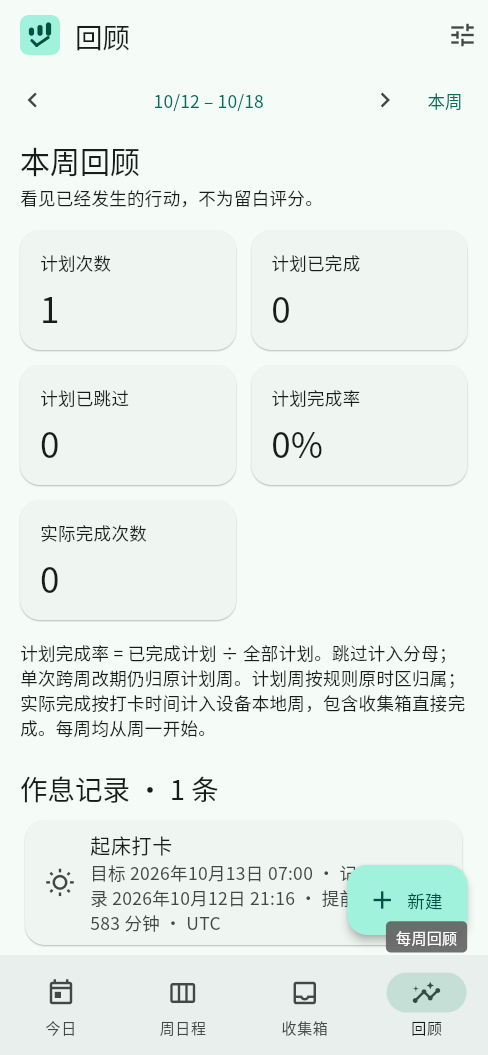
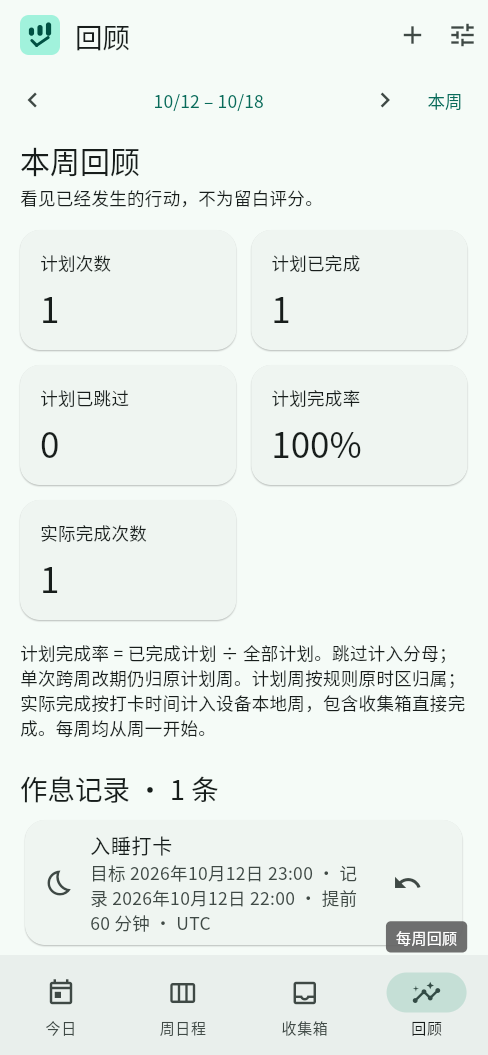
fix: keep review action clear of routine records

diff --git a/app/test/global_interactions_test.dart b/app/test/global_interactions_test.dart
@@ -37,6 +37,50 @@ void main() {
     expect(find.text('保留这条输入'), findsOneWidget);
   });
 
+  testWidgets('review keeps task creation clear of routine records', (
+    tester,
+  ) async {
+    tester.view.physicalSize = const Size(390, 844);
+    tester.view.devicePixelRatio = 1;
+    addTearDown(tester.view.resetPhysicalSize);
+    addTearDown(tester.view.resetDevicePixelRatio);
+
+    final planner = Planner.memory(timezone: 'UTC');
+    final reminders = ReminderService(planner);
+    addTearDown(() {
+      reminders.dispose();
+      planner.dispose();
+    });
+    final now = DateTime.now();
+    await planner.saveRoutinePreferences(
+      RoutinePreferences(bedtimeMinutes: 22 * 60),
+    );
+    await planner.recordRoutine(
+      type: RoutineType.bedtime,
+      targetDate: DateTime.utc(now.year, now.month, now.day),
+      recordedAt: now.toUtc(),
+      timezone: 'UTC',
+    );
+
+    await tester.pumpWidget(
+      MaterialApp(
+        home: RhythmShell(planner: planner, reminders: reminders),
+      ),
+    );
+    await tester.tap(find.text('回顾').last);
+    await tester.pumpAndSettle();
+
+    expect(find.byType(FloatingActionButton), findsNothing);
+    final createButton = find.byTooltip('新建任务');
+    expect(createButton, findsOneWidget);
+    await tester.scrollUntilVisible(find.text('入睡打卡'), 300);
+    expect(find.text('入睡打卡'), findsOneWidget);
+
+    await tester.tap(createButton);
+    await tester.pumpAndSettle();
+    expect(find.byType(TaskEditor), findsOneWidget);
+  });
+
   testWidgets('inbox create failure retains input and retry creates once', (
     tester,
   ) async {

diff --git a/app/lib/features/shell.dart b/app/lib/features/shell.dart
@@ -45,6 +45,11 @@ class _RhythmShellState extends State<RhythmShell> {
     super.dispose();
   }
 
+  void _createTask(BuildContext context) {
+    HapticFeedback.selectionClick();
+    showTaskEditor(context, widget.planner);
+  }
+
   @override
   Widget build(BuildContext context) => AnimatedBuilder(
     animation: widget.planner,
@@ -64,6 +69,12 @@ class _RhythmShellState extends State<RhythmShell> {
           ],
         ),
         actions: [
+          if (_page == 3)
+            IconButton(
+              tooltip: '新建任务',
+              icon: const Icon(Icons.add),
+              onPressed: () => _createTask(context),
+            ),
           IconButton(
             tooltip: '设置',
             icon: const Icon(Icons.tune),
@@ -108,14 +119,12 @@ class _RhythmShellState extends State<RhythmShell> {
           ],
         ),
       ),
-      floatingActionButton: MediaQuery.viewInsetsOf(context).bottom > 0
+      floatingActionButton:
+          MediaQuery.viewInsetsOf(context).bottom > 0 || _page == 3
           ? null
           : FloatingActionButton.extended(
               tooltip: '新建任务',
-              onPressed: () {
-                HapticFeedback.selectionClick();
-                showTaskEditor(context, widget.planner);
-              },
+              onPressed: () => _createTask(context),
               icon: const Icon(Icons.add),
               label: const Text('新建'),
             ),

diff --git a/app/docs/phase-two-verification.md b/app/docs/phase-two-verification.md
@@ -6,7 +6,7 @@
 ## 构建与自动化
 
 - `flutter analyze`：无问题。
-- `flutter test`：59 项全部通过，含品牌主题、七列日程交互、全局 UI、作息记录、旧版快照迁移及 SQLite 持久化回归。
+- `flutter test`：60 项全部通过，含品牌主题、七列日程交互、全局 UI、作息记录、旧版快照迁移及 SQLite 持久化回归。
 - `dart tool/export_icons.dart`：生成 Android 五种密度图、Web favicon、普通及 maskable 图标；重复导出后十个 PNG 的 SHA-256 均与首次一致。Web maskable 安全区及多种自适应遮罩预览另有静态检查。通知专用 `ic_notification` 与 `raw/keep.xml` 保留。
 - `flutter build apk --release --split-per-abi`：armeabi-v7a、arm64-v8a、x86_64 均成功。
 - `flutter build web --target lib/main.dart --no-web-resources-cdn --no-wasm-dry-run`：成功，使用本地 Flutter Web 资源。
@@ -14,7 +14,7 @@
 
 ## Web 实际操作
 
-使用独立 Chromium 页面 `http://127.0.0.1:18180/`，Flutter 页面视口先为 390×844 CSS px（设备像素比 1.25），后为 360×640 CSS px；结束时仅清除该隔离 origin 的合成测试数据，未访问或清理其他 origin。Web 插件能力不代表 Android 插件能力。
+主要流程使用独立 Chromium 页面 `http://127.0.0.1:18180/`，视口为 390×844 CSS px（设备像素比 1.25）及 360×640 CSS px；本轮最终修复复核使用独立页面 `http://127.0.0.1:18181/`。结束时仅清除这些隔离 origin 的合成 `localStorage` / `sessionStorage` 数据，未访问或清理其他 origin。Web 插件能力不代表 Android 插件能力。
 
 - 在收集箱仅输入名称创建一项临时验证任务；安排到 2026-10-12 21:11–22:11 后，收集箱不再重复显示；今日及周日程各显示同一项。直接完成没有打开详情，卡片留在原时段并显示已完成；轻量反馈可撤销。回顾显示计划 1、完成 1、完成率 100%、实际完成 1；撤销后回到计划 1、完成 0、实际完成 0。周日程“本周全部日程”可打开该项并进入完整详情；在详情中主动跳过后，同一原时段显示已跳过，回顾显示计划 1、跳过 1、完成率 0%、实际完成 0。
 - 实际创建每周一 / 周三重复任务，将周一实例单次推迟至周二 21:38；周三实例仍留在原时段。对周三实例执行「仅本次」改名后，周二改期实例未变；执行「本次及以后」改名后，周三与下一周实例均更新。依次验证三种删除范围：单次删除仅移除所选周一实例；从周三起删除后续范围会清除下周实例；整个系列改名后再删除整个系列，剩余周内实例消失。Planner 行为测试覆盖系列版本与已有执行历史保留契约。
@@ -22,6 +22,7 @@
 - 独立记录入睡 21:15（目标 23:00），再更正为 21:00（提前 120 分钟）并单独撤销；随后记录起床，默认目标日期为 2026-10-13、07:00，实际记录为 2026-10-12 21:16（提前 583 分钟）。回顾显示作息记录 1 条，同时计划仍为 1、完成为 0；撤销作息记录后作息数归零，任务指标不变。重新加载页面后任务及 23:00 / 07:00 / 折叠偏好仍在。
 - Web 设置实际导出 schema v2 JSON（1 项日程、作息偏好），先取消恢复，再增加一项收集箱任务并确认完整替换；导入后新增任务消失，原日程与作息偏好恢复。此为 Web 文件选择 / 下载流程，不代替 Android 原生 SQLite 与文件选择器验收。
 - 浅色今日、周日程、收集箱、回顾、设置及编辑面板；运行中切换浏览器 `prefers-color-scheme` 后检查深色今日、周日程、收集箱、回顾、设置及编辑面板。使用 Flutter Web 语义树检查并操作中文名称、选中态、空白日程、任务、作息、撤销和导航控件；这是 Web 语义验证，不等同于 Android TalkBack。
+- 回顾页新建任务入口仅显示在标题栏，悬浮新建按钮隐藏；390×844 实际作息记录卡片不再被操作按钮遮挡，点击标题栏入口可打开任务编辑器。已更新作息记录与完成回顾截图。
 - `BrandMark` 在两种种子色及浅 / 深色的像素级 widget 回归通过；Web 明暗主题变化无需重启，应用内品牌标识与功能图标随主题更新。
 - 浏览器中的任务与作息数据均为隔离 origin 的临时验证数据，不是用户数据，也未写入 Android 设备。
 
@@ -29,8 +30,8 @@
 
 ## Android 17 设备边界
 
-已连接设备为 Redmi Note 5 Pro、Android 17 / API 37。将当前 arm64 release APK 通过 `adb install -r` 原位更新安装；没有卸载应用、清除数据、重启设备或改动网络。`pm path org.rhythm.rhythm` 指向已安装 APK，包管理器报告 `versionCode 2002`。
-启动尝试及 `adb shell wm dismiss-keyguard` 尝试后，屏幕仍停留在设备锁屏。没有尝试 PIN、凭据绕过或其他安全锁屏操作。因此本阶段**没有**声称实际观察了 Android 启动器彩色 / 单色图标、壁纸主题着色、Android 真通知小图标、通知送达或设备内应用页面；这些需要设备所有者先解锁后再验收。APK 构建和安装证据不替代运行证据。
+此前一次设备检查中，`adb install -r` 成功，`pm path org.rhythm.rhythm` 返回已安装 APK，包管理器报告 `versionCode 2002`。本轮最终 release APK 构建成功后，`adb devices -l` 已无设备；`adb mdns services` 仍发现 `_adb-tls-connect` 服务，但连接当时发现的 `192.168.1.249:42785` 失败，因此最新构建未能原位覆盖安装。
+设备先前可连接时，启动尝试及 `adb shell wm dismiss-keyguard` 后屏幕仍停留在锁屏。没有尝试 PIN、凭据绕过、清除数据、重启或改变设备网络。因此本阶段**没有**声称实际观察了 Android 启动器彩色 / 单色图标、壁纸主题着色、Android 真通知小图标、通知送达或设备内应用页面；这些需要设备所有者解锁且恢复 ADB 连接后再验收。APK 构建和先前安装证据不替代运行证据。
 
 同样未实测 Android 真机 TalkBack、系统两倍字号与真实软键盘、横屏短视口、启动器遮罩和通知送达。Widget 测试覆盖 360 dp、小屏编辑、TextScaler 2.0、返回 / 遮罩确认等交互，但不替代这些真机验收。真实 Android 文件选择器、逐页错误态及对比度也未在本次 UI smoke 中实测；Web 实际备份导出 / 取消 / 确认完整替换只证明 Web 路径。相应数据约束、v1 快照迁移、失败写入与 SQLite 重开由自动化测试覆盖。
 

diff --git a/CHANGELOG.md b/CHANGELOG.md
@@ -11,8 +11,8 @@
 
 - 统一 `ColorScheme` 主题、随主题更新的应用内品牌标识，以及 Android 自适应 / 单色 / 旧版和 Web 图标；提供正式 SVG 源、导出工具与配置说明。
 - 周日程增加全览 / 标准 / 放大三档、睡眠区间折叠 / 展开及完整 24 小时入口；作息偏好与独立入睡 / 起床记录纳入 schema v2 快照，并兼容有效 schema v1。
-- 收敛今日、周日程、收集箱、回顾、任务编辑 / 详情与设置的交互和语义；作息记录不进入普通任务统计。
-- `flutter analyze` 无问题，59 项测试通过；Android 三 ABI release 与 Web 构建成功，390×844 / 360×640 Web 操作及截图见 [第二阶段验证记录](app/docs/phase-two-verification.md)。Android 17 原位安装成功，但设备锁屏使本阶段启动器、通知和页面真机检查仍未完成。
+- 收敛今日、周日程、收集箱、回顾、任务编辑 / 详情与设置的交互和语义；作息记录不进入普通任务统计，回顾页将新建入口移至标题栏以免遮挡作息记录。
+- `flutter analyze` 无问题，60 项测试通过；Android 三 ABI release 与 Web 构建成功，390×844 / 360×640 Web 操作及截图见 [第二阶段验证记录](app/docs/phase-two-verification.md)。Android 17 曾原位安装 `versionCode 2002`；最终修复后构建成功，但 ADB 连接中断，未能更新装入。设备锁屏及断连使启动器、通知和页面真机验收仍未完成。
 
 ## 真机验证修订 — 2026-10-12
 
